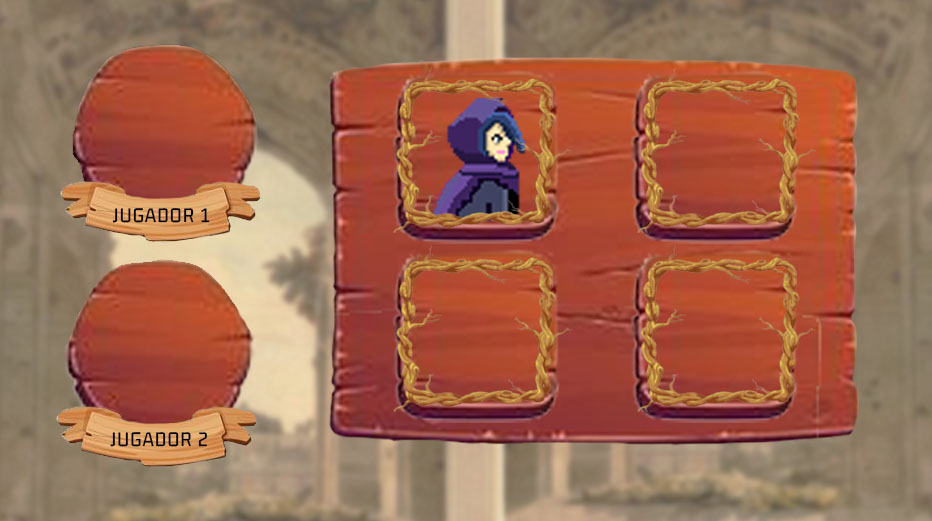
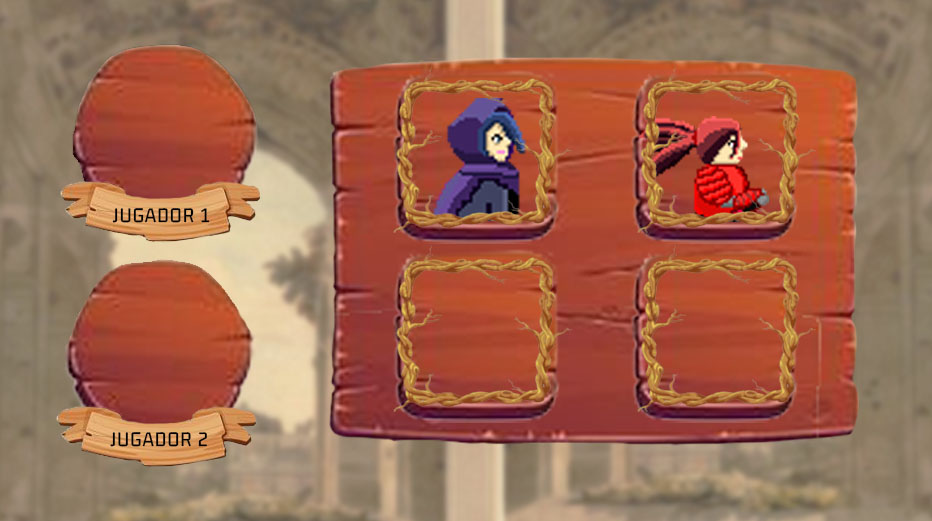
seleccion personajes

Changed region(s): [[0.6845, 0.215, 0.8401, 0.4299]]

diff --git a/container/scripts/scenes/menuseleccion.js b/container/scripts/scenes/menuseleccion.js
@@ -21,50 +21,156 @@ export class Play_Select_Scene extends Phaser.Scene{
 
         this.load.image('fondoseleccion', 'stores/menu/seleccion_perosnajes2.jpg');
         this.load.image('gunlegends', 'stores/menu/grunlegend.png');
+        this.load.image('otonai', 'stores/menu/grunlegend.png');
+        this.load.image('otonai_player', 'stores/menu/OTONAI_jugador.png');
+        this.load.image('botonsalir', 'stores/menu/button/boton_salir.png');
+        this.load.image('botonsalir2', 'stores/menu/button/boton_salir_pulsado.png');
+        this.load.image('grunlegends_player', 'stores/menu/grunlegends_jugador.png');
     }
 
     create() {
+        this.TeclaA = this.input.keyboard.addKey(Phaser.Input.Keyboard.KeyCodes.A);
+        this.TeclaD = this.input.keyboard.addKey(Phaser.Input.Keyboard.KeyCodes.D);
+        this.TeclaW = this.input.keyboard.addKey(Phaser.Input.Keyboard.KeyCodes.W);
+        this.TeclaS = this.input.keyboard.addKey(Phaser.Input.Keyboard.KeyCodes.S);
+        this.iniciar = this.input.keyboard.addKey(Phaser.Input.Keyboard.KeyCodes.ENTER);
+        this.menu_boton = 0;
+
+
         this.background = this.add.image(0, 0, 'fondoseleccion');
         this.background.setScale(1.4);
         this.background.setOrigin(0);
 
+        this.salir = this.add.image(100, 50, 'botonsalir').setInteractive();
+        this.salir.setScale(1);
+        this.salir_luz = this.add.image(100, 50, 'botonsalir2').setInteractive();
+        this.salir_luz.setScale(1);
+        this.salir_luz.alpha = 0;
         this.grunlegendsboton = this.add.image(670, 210, 'gunlegends').setInteractive();
-        this.grunlegendsboton.setScale(1.0);
-        this.grunlegendsboton.alpha=0.2;
+        this.grunlegendsboton.setScale(1.2);
+        this.grunlegendsboton.alpha=0.4;
+        //player 1
+        this.Otonaiplayer = this.add.image(200, 180, 'otonai_player').setInteractive();
+        this.Otonaiplayer.setScale(1.2);
+        this.Otonaiplayer.alpha=0;
         
+        this.grunlegendplayer = this.add.image(230, 180, 'grunlegends_player').setInteractive();
+        this.grunlegendplayer.setScale(1.0);
+        this.grunlegendplayer.alpha=0;
+        //player 2
+        this.Otonaiplayer2 = this.add.image(200, 480, 'otonai_player').setInteractive();
+        this.Otonaiplayer2.setScale(1.2);
+        this.Otonaiplayer2.alpha=0;
+        
+        this.grunlegendplayer2 = this.add.image(220, 480, 'grunlegends_player').setInteractive();
+        this.grunlegendplayer2.setScale(1.0);
+        this.grunlegendplayer2.alpha=0;
 
-
-        /*this.text1 = this.add.text(460, 300, 'Grund Legend', { color: '#000000', fontSize: '28px', fontFamily: 'Gemunu Libre'});
-        this.text1.setInteractive();
-
-        this.text2 = this.add.text(660, 300, 'Avalor', { color: '#000000', fontSize: '28px', fontFamily: 'Gemunu Libre'});
-        this.text2.setInteractive();
-        */
-        this.salir = this.add.text(50,50,'Salir', { color: '#000000', fontSize: '40px', fontFamily: 'Gemunu Libre'});
-        this.salir.setInteractive();
+        ////
+        this.otonaiboton = this.add.image(1000, 210, 'otonai').setInteractive();
+        this.otonaiboton.setScale(1.2);
+        this.otonaiboton.alpha=0.1;
+        
+        
+        //this.salir = this.add.text(50,50,'Salir', { color: '#000000', fontSize: '40px', fontFamily: 'Gemunu Libre'});
+        //this.salir.setInteractive();
 
         //this.events.emit ('gameCountDown', ({countDown: 10}));
         
         var that = this;
         this.grunlegendsboton.on('pointerdown', function(pointer){
             console.log('Personaje 1 seleccionado');
-            that.scene.start("game_Scene", {character: 'grundlegend'});
+           that.scene.start("game_Scene", {character: 'grundlegend'});
         });
-        /*
-        this.text2.on('pointerdown', function(pointer){
-            console.log('Personaje 2 seleccionado');
-            that.scene.start("game_Scene", {character: 'avalor'});
+        this.otonaiboton.on('pointerdown', function(pointer){
+            console.log('Personaje 1 seleccionado');
+           that.scene.start("game_Scene", {character: 'grundlegend'});
         });
-        */
-        this.salir.on('pointerdown', function(pointer){
+        this.salir_luz.on('pointerdown', function(pointer){
             console.log('Boton salir pulsado');
-            that.scene.start("play_menu_Scene");
-        })
+            that.scene.start("menu_Scene");
+        });
         this.iniciar = this.input.keyboard.addKey(Phaser.Input.Keyboard.KeyCodes.ENTER);
 
     }
 
     update() {
+        var that = this;
+        this.salir.on('pointerover', function(pointer){
+            //console.log(that.boton1_luz);           
+            that.salir_luz.alpha = 1;           
+        });
+        this.grunlegendsboton.on('pointerover', function(pointer){
+            //console.log('Personaje 1 seleccionado');
+            that.grunlegendsboton.alpha = 0.4;
+            that.otonaiboton.alpha = 0.1;
+            that.salir_luz.alpha = 0;
+            that.Otonaiplayer.alpha=0;
+            that.grunlegendplayer.alpha=1;   
+        });
+        this.otonaiboton.on('pointerover', function(pointer){
+            console.log('Personaje 1 seleccionado');
+            that.otonaiboton.alpha = 0.4;
+            that.grunlegendsboton.alpha = 0.1;
+            that.salir_luz.alpha = 0; 
+            that.Otonaiplayer.alpha=1;
+            that.grunlegendplayer.alpha=0;  
+        });
+        if(this.TeclaA.isDown || this.TeclaW.isDown ){           
+            if (this.grunlegendsboton.alpha == 0.4){
+                        console.log('1')
+                        this.Otonaiplayer.alpha=1;
+                        this.grunlegendplayer.alpha=0;
+                        this.otonaiboton.alpha = 0.4;
+                        this.grunlegendsboton.alpha = 0;
+                        this.menu_boton = 0;
+                        this.salir_luz.alpha = 0;
+                }else if (this.salir_luz.alpha == 1){
+                        console.log('3')
+                        this.Otonaiplayer.alpha=0;
+                        this.grunlegendplayer.alpha=1;
+                        this.otonaiboton.alpha = 0;
+                        this.grunlegendsboton.alpha = 0.4 ;
+                        this.menu_boton = 0;
+                        this.salir_luz.alpha = 0;
+                        
+                }else if(this.otonaiboton.alpha == 0.4){
+                    console.log('2')
+                    this.Otonaiplayer.alpha=0;
+                    this.grunlegendplayer.alpha=0;
+                    this.otonaiboton.alpha = 0;
+                    this.grunlegendsboton.alpha = 0;
+                    this.menu_boton = 1;
+                    this.salir_luz.alpha = 1;
+                }
+            }else if(this.TeclaD.isDown || this.TeclaS.isDown ){
+                if (this.grunlegendsboton.alpha == 0.4){
+                    console.log('1')
+                    this.Otonaiplayer.alpha=0;
+                    this.grunlegendplayer.alpha=0;
+                    this.otonaiboton.alpha = 0;
+                    this.grunlegendsboton.alpha = 0;
+                    this.menu_boton = 0;
+                    this.salir_luz.alpha = 1;
+                    //console.log(this.menu_boton);
+                }else if (this.salir_luz.alpha == 1){
+                    console.log('3')
+                    this.Otonaiplayer.alpha=1;
+                    this.grunlegendplayer.alpha=0;
+                    this.otonaiboton.alpha = 0.4;
+                    this.grunlegendsboton.alpha = 0 ;
+                    this.menu_boton = 0;
+                    this.salir_luz.alpha = 0;                  
+                }else if(this.otonaiboton.alpha == 0.4){
+                    console.log('2')
+                    this.Otonaiplayer.alpha=0;
+                    this.grunlegendplayer.alpha=1;
+                    this.otonaiboton.alpha = 0;
+                    this.grunlegendsboton.alpha = 0.4;
+                    this.menu_boton = 1;
+                    this.salir_luz.alpha = 0;
+                }
+        }
         this.pointer = this.input.activePointer;
         if(this.iniciar.isDown){
             console.log('enter')
